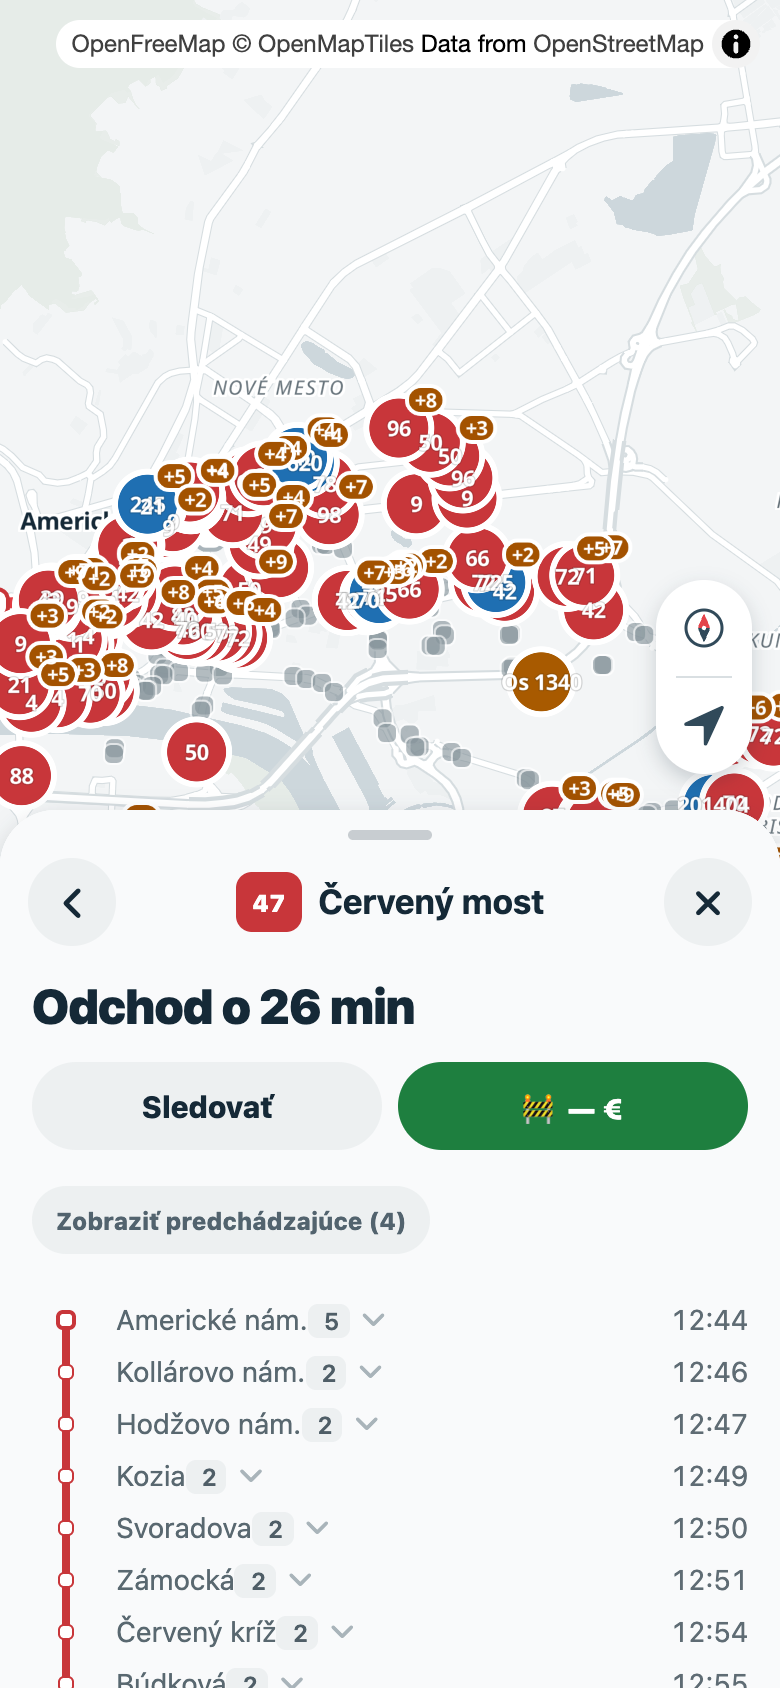
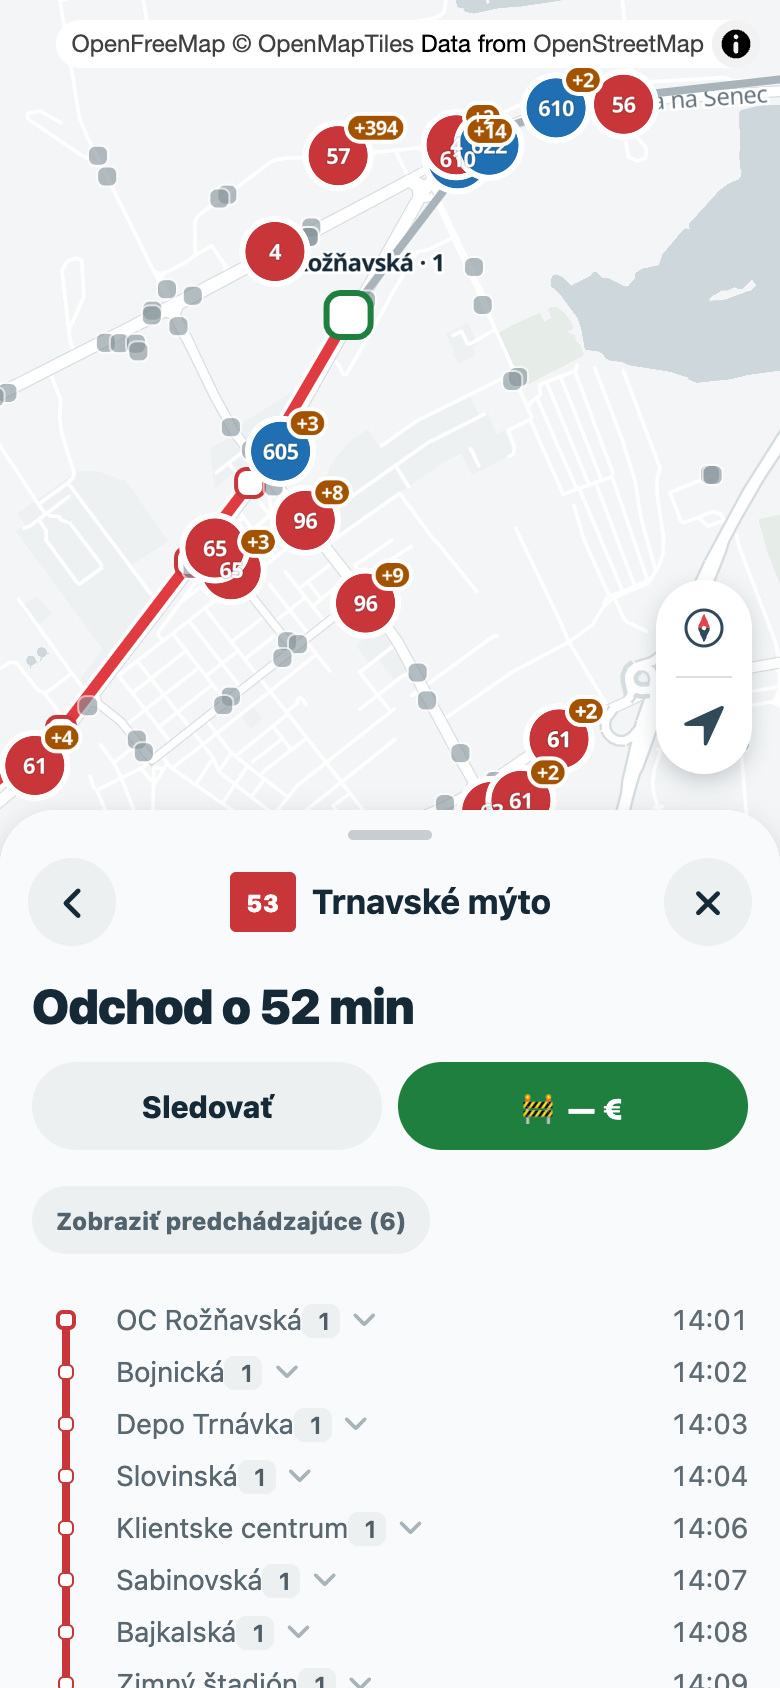
spoj journey drawer: inline trip opens over the leg

diff --git a/spoj-journey-drawer.html b/spoj-journey-drawer.html
@@ -23,8 +23,8 @@ figcaption{font-size:13px;color:var(--text-2);margin-top:8px} figcaption b{color
   <figure><img src="spoj-journey-drawer/03-tier2-first.png" alt=""><figcaption><b>Tier 2 · first leg</b>Tapping a leg opens it: CTAs, one-line trips, the walk onto it above the stops.</figcaption></figure>
   <figure><img src="spoj-journey-drawer/04-tier2-link.png" alt=""><figcaption><b>Tier 2 · a later leg</b>The change from the previous leg above the stops: 96 arrives 11:29, 5 min wait.</figcaption></figure>
   <figure><img src="spoj-journey-drawer/05-arrivals.png" alt=""><figcaption><b>Stop opened</b>The next three departures after you arrive unfold in line; Všetky odchody opens tier 3.</figcaption></figure>
-  <figure><img src="spoj-journey-drawer/05b-inline-trip.png" alt=""><figcaption><b>Inline departure tapped</b>Its trip opens with the full live map, on top of that stop's departures card.</figcaption></figure>
-  <figure><img src="spoj-journey-drawer/05c-back-card.png" alt=""><figcaption><b>Back</b>Returns to the stop's departures card; back again returns to the leg.</figcaption></figure>
+  <figure><img src="spoj-journey-drawer/05b-inline-trip.png" alt=""><figcaption><b>Inline departure tapped</b>Its trip opens with the full live map, straight over the leg.</figcaption></figure>
+  <figure><img src="spoj-journey-drawer/05c-back-card.png" alt=""><figcaption><b>Back</b>Returns to the leg; only Všetky odchody opens the departures card.</figcaption></figure>
   <figure><img src="spoj-journey-drawer/06-tier3.png" alt=""><figcaption><b>Tier 3 · departures card</b>The card from Odchody, listing what leaves after you arrive. Odtiaľto plans from the stop, closing the journey like back: tracked tucks into the pill, untracked closes. Back returns to the leg.</figcaption></figure>
   <figure><img src="spoj-journey-drawer/06b-trip-on-top.png" alt=""><figcaption><b>A departure tapped</b>Its trip opens on top inside the journey, with the full live map. Back returns to the card.</figcaption></figure>
   <figure><img src="spoj-journey-drawer/07-missed-onto.png" alt=""><figcaption><b>Earlier trip picked</b>It is struck through in the chips, and the warning sits above the stops.</figcaption></figure>
